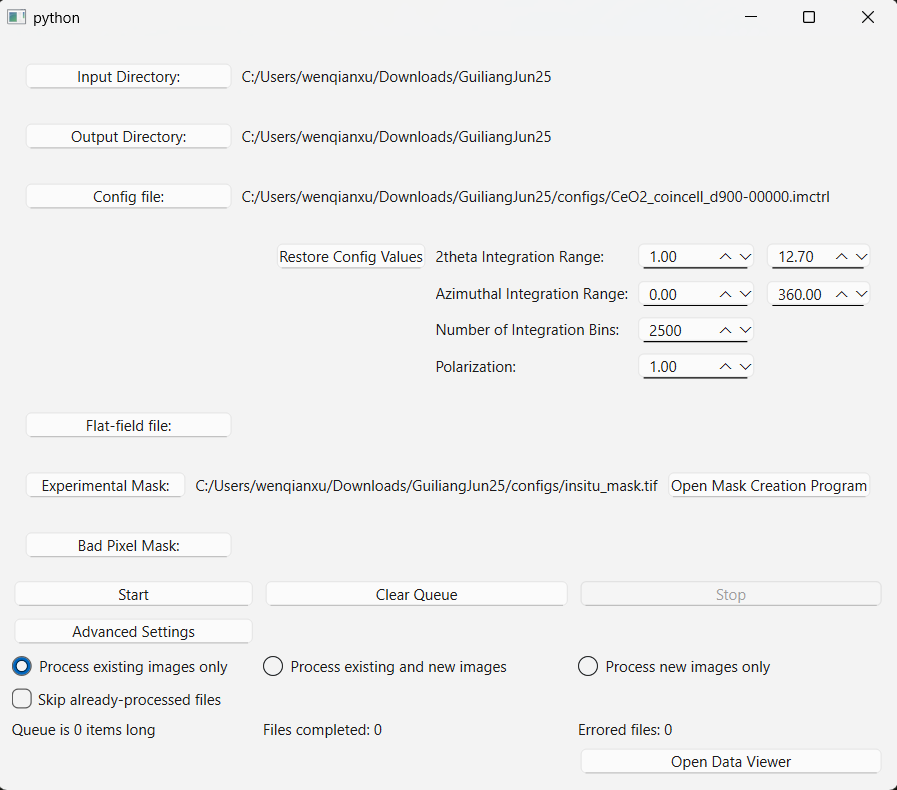
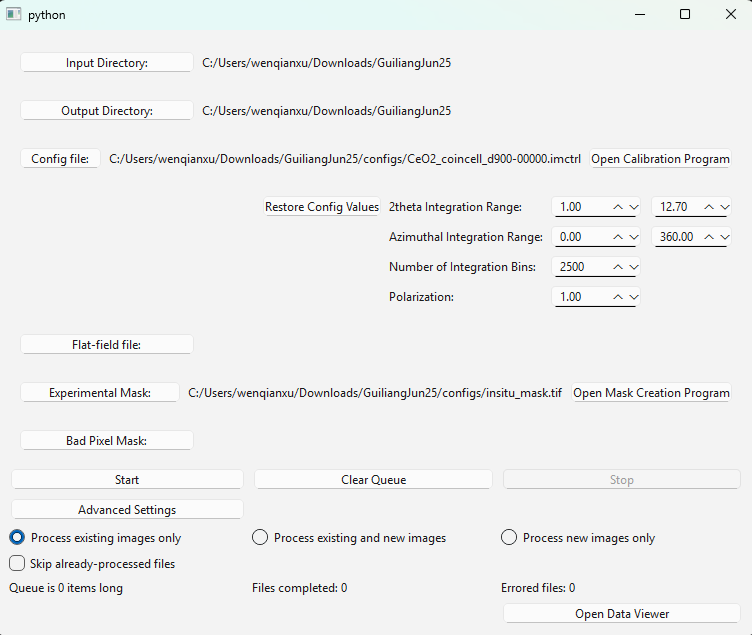
Updated readme and tutorial to reflect the added calibration program

diff --git a/README.rst b/README.rst
@@ -90,7 +90,8 @@ The input directory is where the analysis pipeline will watch for incoming XRD i
 
 The output directory will hold results such as outlier mask files, integrated powder patterns, and other statistical information.
 
-The configuration file may be either an .imctrl (GSASII) or .poni (PyFAI) calibration file.
+The configuration file can be created using the pipeline's calibration program, or loaded from an existing .imctrl (GSAS-II) or .poni (PyFAI) file.
+To create a new configuration file from scratch, click "open calibration program" button and follow the guidelines provided inside.
 If using a .poni file, you must manually enter the integration range, number of integration bins, and polarization to correct for.
 If using an .imctrl file, you may optionally overwrite the configuration values.
 
